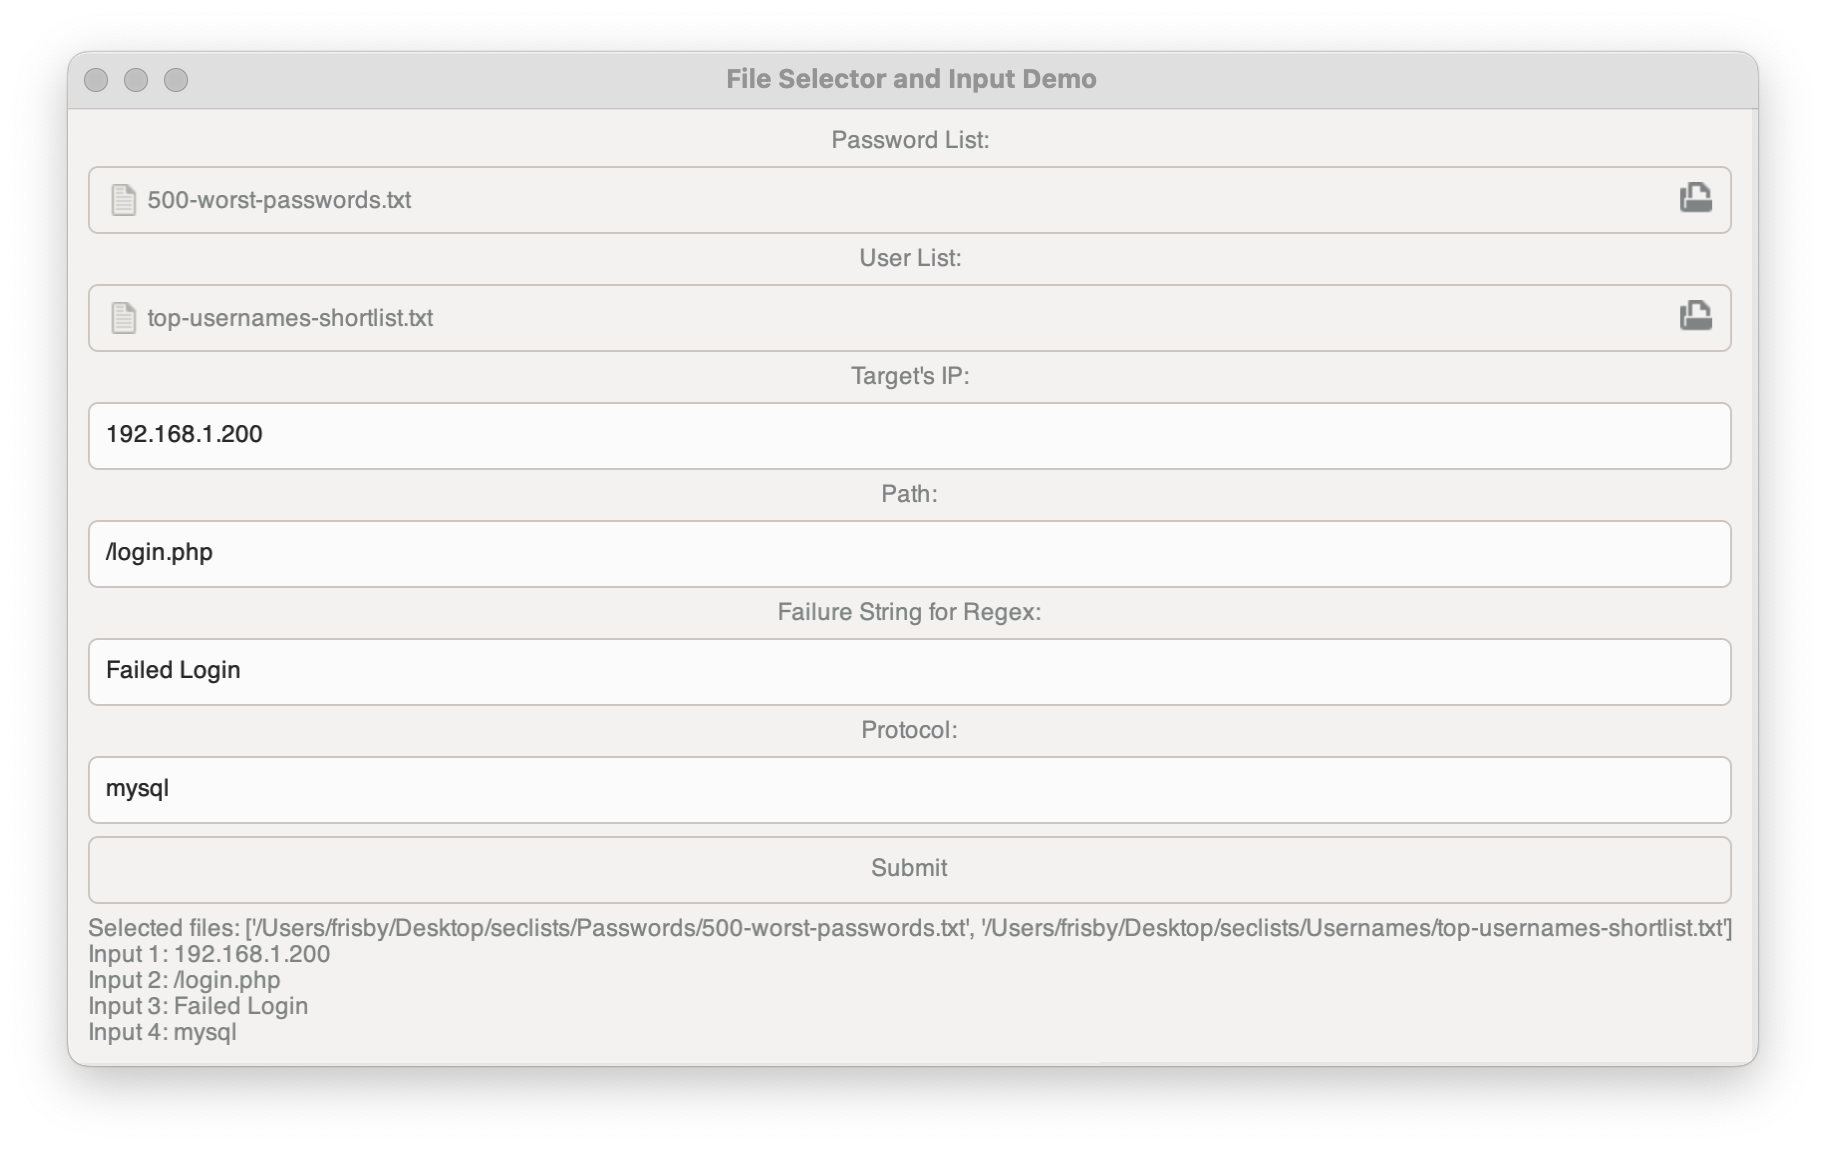
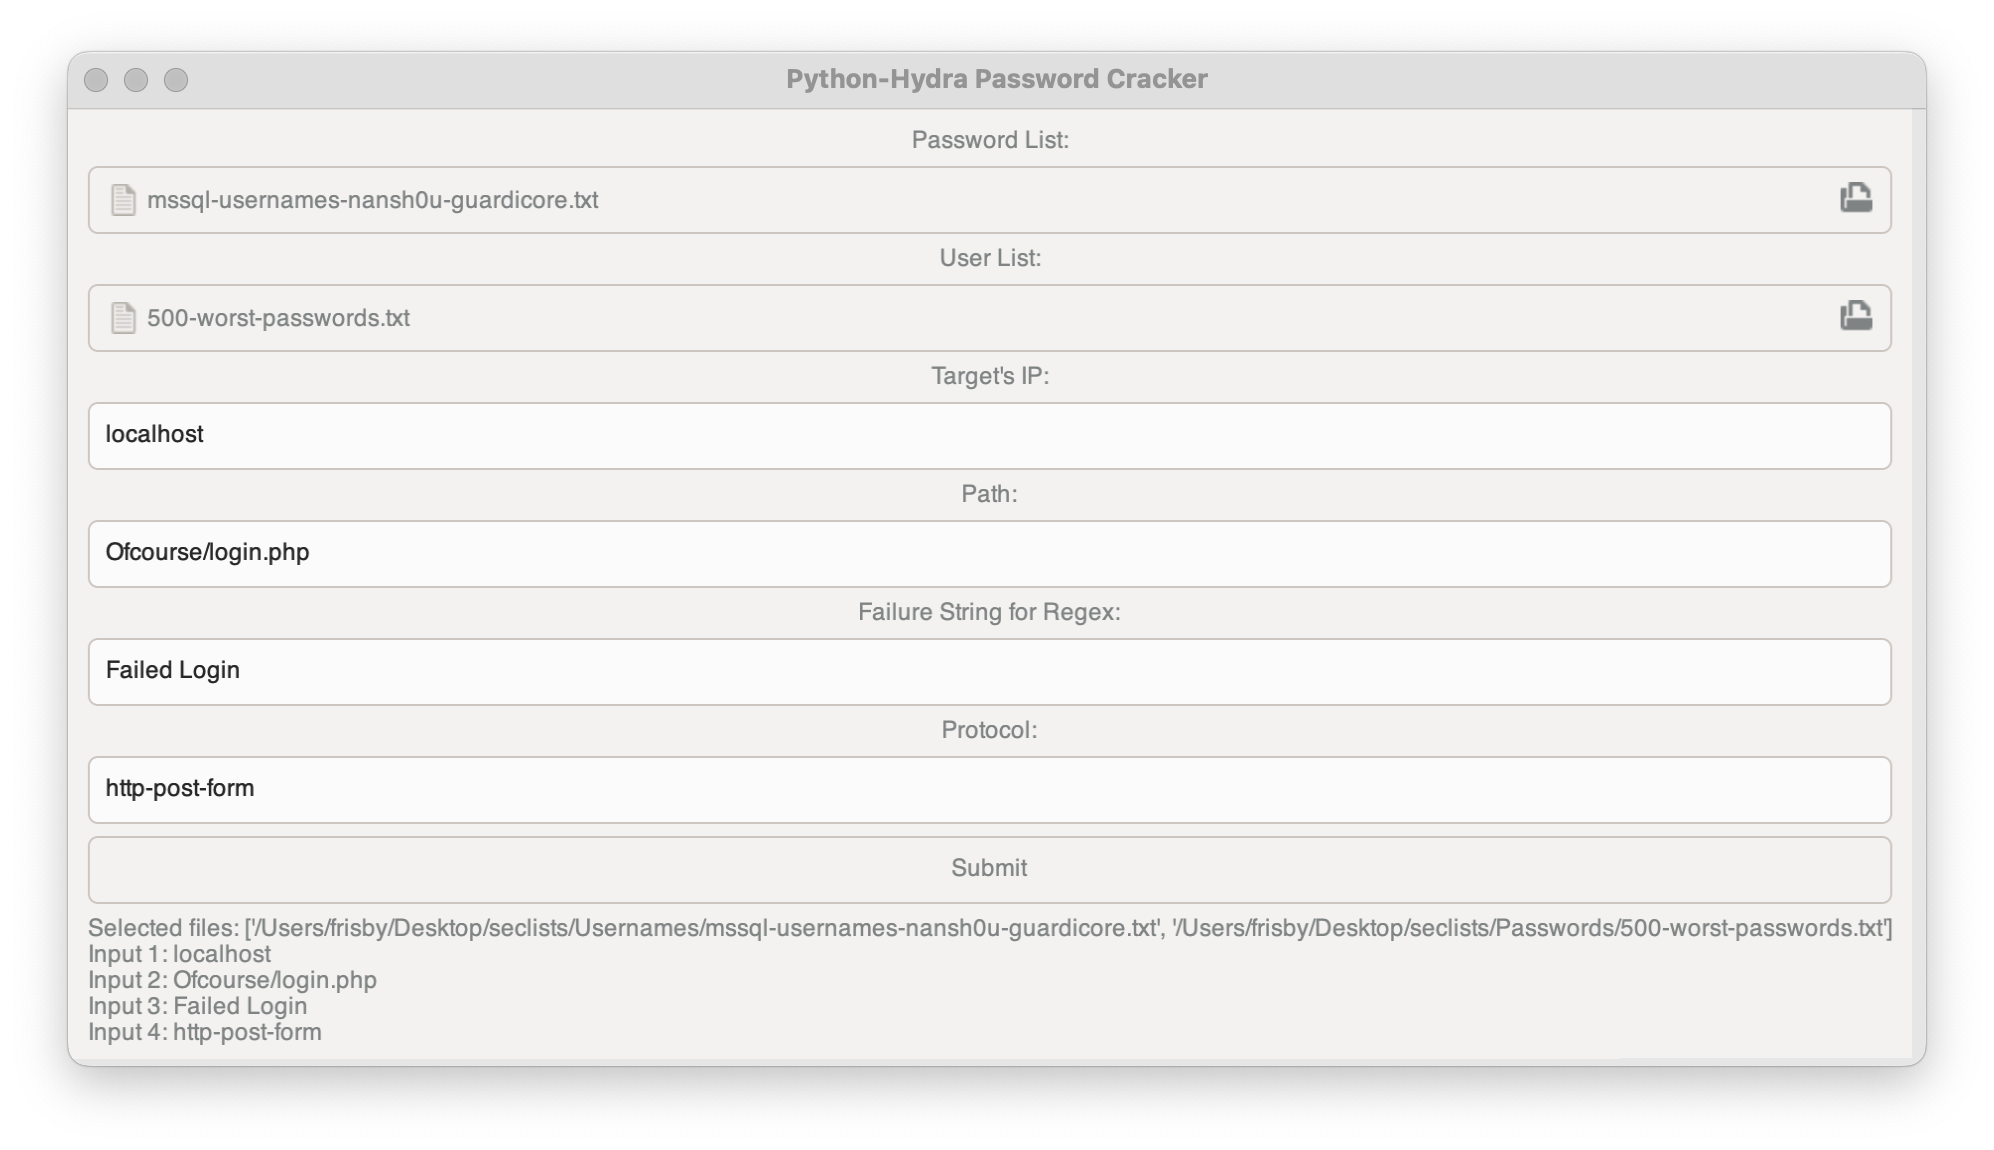
I changed the title, and the output's text, and some of the variables.

diff --git a/window.py b/window.py
@@ -1,9 +1,11 @@
 import gi
 import subprocess
 from gi.repository import Gtk
+
+
 class MyWindow(Gtk.Window):
     def __init__(self):
-        Gtk.Window.__init__(self, title="File Selector and Input Demo")
+        Gtk.Window.__init__(self, title="Python-Hydra Password Cracker")
         self.set_border_width(10)
 
         vbox = Gtk.Box(orientation=Gtk.Orientation.VERTICAL, spacing=6)
@@ -43,8 +45,8 @@ class MyWindow(Gtk.Window):
 
         input3_entry = Gtk.Entry()
         vbox.pack_start(input3_entry, False, False, 0)
-        
-         # Input 4
+
+        # Input 4
         input4_label = Gtk.Label(label="Protocol:")
         vbox.pack_start(input4_label, False, False, 0)
 
@@ -53,7 +55,8 @@ class MyWindow(Gtk.Window):
 
         # Submit Button
         submit_button = Gtk.Button(label="Submit")
-        submit_button.connect("clicked", self.on_submit_clicked, file_selector1, file_selector2, input1_entry, input2_entry, input3_entry, input4_entry)
+        submit_button.connect("clicked", self.on_submit_clicked, file_selector1,
+                              file_selector2, input1_entry, input2_entry, input3_entry, input4_entry)
 
         vbox.pack_start(submit_button, False, False, 0)
 
@@ -61,14 +64,15 @@ class MyWindow(Gtk.Window):
         self.display_label = Gtk.Label(label="")
         vbox.pack_start(self.display_label, False, False, 0)
 
-    def on_submit_clicked(self, button, file_selector1, file_selector2, input1_entry, input2_entry, input3_entry,input4_entry):
-        selected_files = [file_selector1.get_filename(), file_selector2.get_filename()]
-        input1 = input1_entry.get_text()
-        input2 = input2_entry.get_text()
-        input3 = input3_entry.get_text()
-        input4 = input4_entry.get_text()
+    def on_submit_clicked(self, button, file_selector1, file_selector2, input1_entry, input2_entry, input3_entry, input4_entry):
+        selected_files = [
+            file_selector1.get_filename(), file_selector2.get_filename()]
+        targetip = input1_entry.get_text()
+        path = input2_entry.get_text()
+        regexstring = input3_entry.get_text()
+        protocol = input4_entry.get_text()
 
-        selected_inputs = f"Selected files: {selected_files}\nInput 1: {input1}\nInput 2: {input2}\nInput 3: {input3}\nInput 4: {input4}"
+        selected_inputs = f"Selected files: {selected_files}\nTarget IP: {targetip}\nPath: {path}\nRegexString: {regexstring}\nProtocol: {protocol}"
 
         self.display_label.set_text(selected_inputs)
 

diff --git a/README.md b/README.md
@@ -11,4 +11,5 @@ Just experimenting with a Python GTK GUI, that's going to take in a few paramate
 This is just my start. 2 days in with this build, so be nice.
 
 ![PythonGTK](./images/pythonGTK.png)
+![PythonGTK2](./images/pythonGTK2.png)
 ![sniffNetworksNotDrugs](./images/sniffnetworksnotdrugs.webp)
